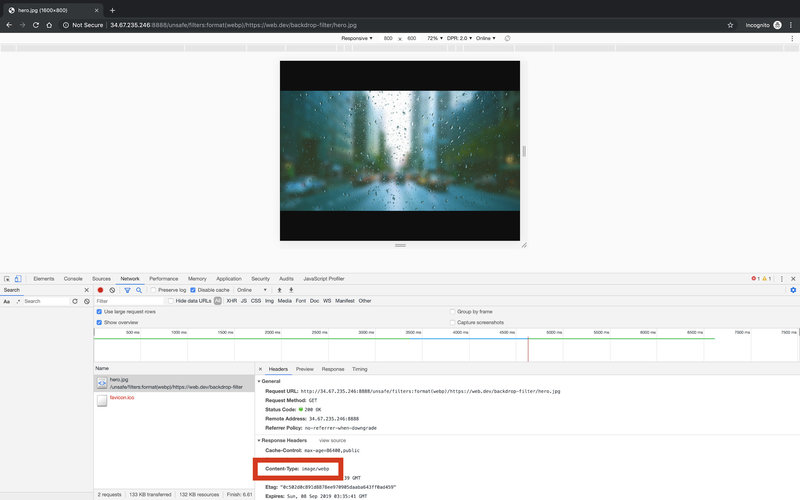
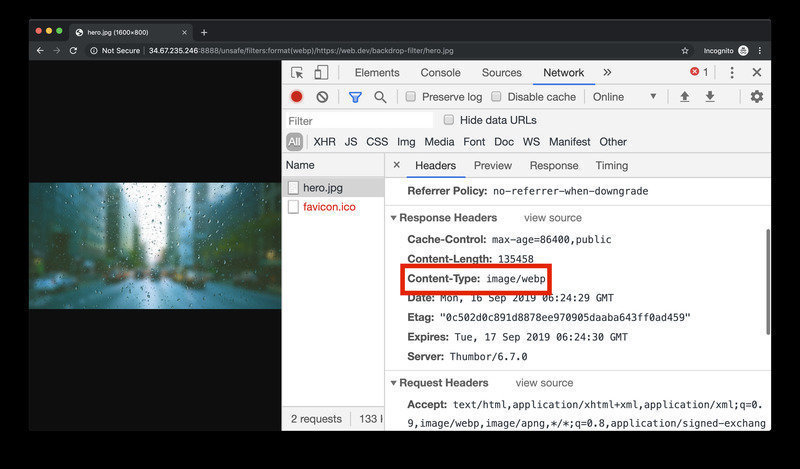
Edits to 'use thumbor' blog post

diff --git a/src/site/content/en/blog/use-thumbor/index.md b/src/site/content/en/blog/use-thumbor/index.md
@@ -34,9 +34,8 @@ As mentioned in [Use Image CDNs to Optimize Images](https://web.dev/image-cdns),
 
 <figure class="w-figure  w-figure--center">
   <img src="./Use-thumbor0.jpg" alt="A Thumbor URL has the following components: origin, security key, size, filters and image." class="w-screenshot">
+  <figcaption>Thumbor's URL format</figcaption>
 </figure>
-
-_Figure 1. Thumbor's URL format_
 
 
 ### Origin
@@ -46,7 +45,7 @@ Like all [origins](https://html.spec.whatwg.org/multipage/origin.html#concept-or
 
 ### Security Key
 
-The `unsafe` part of the URL indicates that you're using Thumbor without a [security key](https://github.com/thumbor/thumbor/wiki/security). A security key prevents a user from making unauthorized changes to your image URLs. By changing the image URL, a user could use your server (and your hosting bill) to resize their images, or, more maliciously, to overload your server. This guide won't cover setting up Thumbor's security key feature.
+The `unsafe` part of the URL indicates that you're using Thumbor without a security key. A security key prevents a user from making unauthorized changes to your image URLs. By changing the image URL, a user could use your server (and your hosting bill) to resize their images, or, more maliciously, to overload your server. This guide won't cover setting up [Thumbor's security key feature](https://github.com/thumbor/thumbor/wiki/security).
 
 
 ### Size
@@ -55,21 +54,18 @@ This part of the URL specifies the desired size of the output image. This can be
 
 Try it now:
 
-1. Click the URL below to view the image served at its original size. The image opens in a new tab.
-
-<a href="http://34.67.235.246:8888/unsafe/https://web.dev/backdrop-filter/hero.jpg" target="_blank" rel="noreferrer">http://34.67.235.246:8888/unsafe/https://web.dev/backdrop-filter/hero.jpg</a>
+1. Click the following URL to view the image served at its original size in a new tab: <a href="http://34.67.235.246:8888/unsafe/https://web.dev/backdrop-filter/hero.jpg" target="_blank" rel="noreferrer">http://34.67.235.246:8888/unsafe/https://web.dev/backdrop-filter/hero.jpg</a>
 
 <figure class="w-figure  w-figure--center">
   <img src="./Use-thumbor1.jpg" alt="Image at original size" class="w-screenshot">
+  <figcaption>Resize the image to 100x100 pixels</figcaption>
 </figure>
 
-
-2. Resize the image to 100x100 pixels.
-
-<a href="http://34.67.235.246:8888/unsafe/100x100/https://web.dev/backdrop-filter/hero.jpg" target="_blank" rel="noreferrer">http://34.67.235.246:8888/unsafe/100x100/https://web.dev/backdrop-filter/hero.jpg</a>
+2. Resize the image to 100x100 pixels: <a href="http://34.67.235.246:8888/unsafe/100x100/https://web.dev/backdrop-filter/hero.jpg" target="_blank" rel="noreferrer">http://34.67.235.246:8888/unsafe/100x100/https://web.dev/backdrop-filter/hero.jpg</a>
 
 <figure class="w-figure  w-figure--center">
   <img src="./Use-thumbor2.jpg" alt="Image at 100x100 pixels" class="w-screenshot">
+  <figcaption>Resized image</figcaption>
 </figure>
 
 
@@ -79,21 +75,19 @@ Filters transform an image. The filters part of the URL segment starts with `fil
 
 Try it now:
 
-1. Apply a single filter: a Gaussian [blur](https://thumbor.readthedocs.io/en/latest/blur.html) effect with a radius of 25 pixels.
-
-<a href="http://34.67.235.246:8888/unsafe/filters:blur(25)/https://web.dev/backdrop-filter/hero.jpg" target="_blank" rel="noreferrer">http://34.67.235.246:8888/unsafe/filters:blur(25)/https://web.dev/backdrop-filter/hero.jpg</a>
+1. Apply a single filter: a Gaussian [blur](https://thumbor.readthedocs.io/en/latest/blur.html) effect with a radius of 25 pixels: <a href="http://34.67.235.246:8888/unsafe/filters:blur(25)/https://web.dev/backdrop-filter/hero.jpg" target="_blank" rel="noreferrer">http://34.67.235.246:8888/unsafe/filters:blur(25)/https://web.dev/backdrop-filter/hero.jpg</a>
 
 <figure class="w-figure  w-figure--center">
   <img src="./Use-thumbor3.jpg" alt="Blurred image" class="w-screenshot">
+  <figcaption>Blurred imaage</figcaption>
 </figure>
 
 
-2. Apply multiple filters: convert to [grayscale](https://thumbor.readthedocs.io/en/latest/grayscale.html) and [rotate](https://thumbor.readthedocs.io/en/latest/rotate.html) the image 90 degrees.
-
-<a href="http://34.67.235.246:8888/unsafe/filters:grayscale():blur(90)/https://web.dev/backdrop-filter/hero.jpg" target="_blank" rel="noreferrer">http://34.67.235.246:8888/unsafe/filters:grayscale():blur(90)/https://web.dev/backdrop-filter/hero.jpg</a>
+2. Apply multiple filter. Convert to [grayscale](https://thumbor.readthedocs.io/en/latest/grayscale.html) and [rotate](https://thumbor.readthedocs.io/en/latest/rotate.html) the image 90 degrees: <a href="http://34.67.235.246:8888/unsafe/filters:grayscale():blur(90)/https://web.dev/backdrop-filter/hero.jpg" target="_blank" rel="noreferrer">http://34.67.235.246:8888/unsafe/filters:grayscale():blur(90)/https://web.dev/backdrop-filter/hero.jpg</a>
 
 <figure class="w-figure  w-figure--center">
   <img src="./Use-thumbor4.jpg" alt="Grayscale image that has been rotated 90 degrees" class="w-screenshot">
+  <figcaption>Grayscale, rotated image</figcaption>
 </figure>
 
 
@@ -109,20 +103,18 @@ The [quality](https://thumbor.readthedocs.io/en/latest/quality.html) filter comp
 
 Try it now:
 
-1. Compress the image to a quality of 1 (very bad).
-
-<a href="http://34.67.235.246:8888/unsafe/filters:quality(1)/https://web.dev/backdrop-filter/hero.jpg" target="_blank" rel="noreferrer">http://34.67.235.246:8888/unsafe/filters:quality(1)/https://web.dev/backdrop-filter/hero.jpg</a>
+1. Compress the image to a quality of 1 (very bad): <a href="http://34.67.235.246:8888/unsafe/filters:quality(1)/https://web.dev/backdrop-filter/hero.jpg" target="_blank" rel="noreferrer">http://34.67.235.246:8888/unsafe/filters:quality(1)/https://web.dev/backdrop-filter/hero.jpg</a>
 
 <figure class="w-figure  w-figure--center">
   <img src="./Use-thumbor5.jpg" alt="Low-quality image" class="w-screenshot">
+  <figcaption>Low-quality image</figcaption>
 </figure>
 
-2. Compress the image using Thumbor's default compression settings.
-
-<a href="http://34.67.235.246:8888/unsafe/filters:quality()/https://web.dev/backdrop-filter/hero.jpg" target="_blank" rel="noreferrer">http://34.67.235.246:8888/unsafe/filters:quality()/https://web.dev/backdrop-filter/hero.jpg</a>
+2. Compress the image using Thumbor's default compression settings: <a href="http://34.67.235.246:8888/unsafe/filters:quality()/https://web.dev/backdrop-filter/hero.jpg" target="_blank" rel="noreferrer">http://34.67.235.246:8888/unsafe/filters:quality()/https://web.dev/backdrop-filter/hero.jpg</a>
 
 <figure class="w-figure  w-figure--center">
-  <img src="./Use-thumbor6.jpg" alt="Low-quality image that appears very pixelated" class="w-screenshot">
+  <img src="./Use-thumbor6.jpg" alt="Compressed image with no noticible quality issues" class="w-screenshot">
+  <figcaption>Compressed image</figcaption>
 </figure>
 
 ### Resizing
@@ -131,22 +123,20 @@ To resize an image while maintaining its original proportions use the format `$W
 
 Try it now:
 
-1. Resize the image to a width of 200 pixels while maintaining original proportions.
-
-<a href="http://34.67.235.246:8888/unsafe/200x0/https://web.dev/backdrop-filter/hero.jpg" target="_blank" rel="noreferrer">http://34.67.235.246:8888/unsafe/200x0/https://web.dev/backdrop-filter/hero.jpg</a>
+1. Resize the image to a width of 200 pixels while maintaining original proportions: <a href="http://34.67.235.246:8888/unsafe/200x0/https://web.dev/backdrop-filter/hero.jpg" target="_blank" rel="noreferrer">http://34.67.235.246:8888/unsafe/200x0/https://web.dev/backdrop-filter/hero.jpg</a>
 
 
 <figure class="w-figure  w-figure--center">
   <img src="./Use-thumbor7.jpg" alt="Image that is 200 pixels wide" class="w-screenshot">
+  <figcaption>Image resized to a width of 200 pixels</figcaption>
 </figure>
 
 
-2. Resize the image to a height of 500 pixels while maintaining original proportions.
-
-<a href="http://34.67.235.246:8888/unsafe/0x500/https://web.dev/backdrop-filter/hero.jpg" target="_blank" rel="noreferrer">http://34.67.235.246:8888/unsafe/0x500/https://web.dev/backdrop-filter/hero.jpg</a>
+2. Resize the image to a height of 500 pixels while maintaining original proportion<a href="http://34.67.235.246:8888/unsafe/0x500/https://web.dev/backdrop-filter/hero.jpg" target="_blank" rel="noreferrer">http://34.67.235.246:8888/unsafe/0x500/https://web.dev/backdrop-filter/hero.jpg</a>
 
 <figure class="w-figure  w-figure--center">
   <img src="./Use-thumbor8.jpg" alt="Image that is 500 pixels tall" class="w-screenshot">
+  <figcaption>Image resized to a height of 500 pixels<figcaption>
 </figure>
 
 
@@ -155,21 +145,19 @@ You can also resize images to a percentage of the original by using the [proport
 
 Try it now:
 
-1. Resize the image to 50% of the original.
-
-<a href="http://34.67.235.246:8888/unsafe/filters:proportion(.5)/https://web.dev/backdrop-filter/hero.jpg" target="_blank" rel="noreferrer">http://34.67.235.246:8888/unsafe/filters:proportion(.5)/https://web.dev/backdrop-filter/hero.jpg</a>
+1. Resize the image to 50% of the original: <a href="http://34.67.235.246:8888/unsafe/filters:proportion(.5)/https://web.dev/backdrop-filter/hero.jpg" target="_blank" rel="noreferrer">http://34.67.235.246:8888/unsafe/filters:proportion(.5)/https://web.dev/backdrop-filter/hero.jpg</a>
 
 <figure class="w-figure  w-figure--center">
   <img src="./Use-thumbor9.jpg" alt="Image that is 50% the size of the original" class="w-screenshot">
+  <figcaption>Image resized to 50% the size of the original</figcaption>
 </figure>
 
 
-2. Resize the image to a width of 1000 pixels, then resize the image to 10% of its current size.
-
-<a href="http://34.67.235.246:8888/unsafe/1000x/filters:proportion(.1)/https://web.dev/backdrop-filter/hero.jpg" target="_blank" rel="noreferrer">http://34.67.235.246:8888/unsafe/1000x/filters:proportion(.1)/https://web.dev/backdrop-filter/hero.jpg</a>
+2. Resize the image to a width of 1000 pixels, then resize the image to 10% of its current size: <a href="http://34.67.235.246:8888/unsafe/1000x/filters:proportion(.1)/https://web.dev/backdrop-filter/hero.jpg" target="_blank" rel="noreferrer">http://34.67.235.246:8888/unsafe/1000x/filters:proportion(.1)/https://web.dev/backdrop-filter/hero.jpg</a>
 
 <figure class="w-figure  w-figure--center">
   <img src="./Use-thumbor10.jpg" alt="Image that is 100 pixels wide" class="w-screenshot">
+  <figcaption>Image resized to a width of 100 pixels</figcaption>
 </figure>
 
 
@@ -182,12 +170,11 @@ The [format](https://thumbor.readthedocs.io/en/latest/format.html) filter conver
 
 Try it now:
 
-1. Convert the image to WebP. If you open the **Network** panel of DevTools the document's **Content-Type response header** shows that the server returned a WebP image.
-
-<a href="http://34.67.235.246:8888/unsafe/filters:format(webp)/https://web.dev/backdrop-filter/hero.jpg" target="_blank" rel="noreferrer">http://34.67.235.246:8888/unsafe/filters:format(webp)/https://web.dev/backdrop-filter/hero.jpg</a>
+1. Convert the image to WebP. If you open the **Network** panel of DevTools the document's **Content-Type response header** shows that the server returned a WebP image: <a href="http://34.67.235.246:8888/unsafe/filters:format(webp)/https://web.dev/backdrop-filter/hero.jpg" target="_blank" rel="noreferrer">http://34.67.235.246:8888/unsafe/filters:format(webp)/https://web.dev/backdrop-filter/hero.jpg</a>
 
 <figure class="w-figure  w-figure--center">
   <img src="./Use-thumbor11.jpg" alt="DevTools screenshot showing the content-type (WebP) of an image" class="w-screenshot">
+  <figcaption>The `content-type` header in DevTools</figcaption>
 </figure>
 
 
@@ -195,22 +182,29 @@ Try it now:
 
 Try out other [filters](https://thumbor.readthedocs.io/en/latest/filters.html) and transformations on the `hero.jpg` image.
 
-If you're following along using your own Thumbor installation, check out the appendix below that explains how and why to use the thumbor.conf file.
+If you're following along using your own Thumbor installation, check out the appendix below that explains how and why to use the `thumbor.conf` file.
 
 
-## Appendix: Thumbor.conf
+## Appendix: `thumbor.conf`
 
-Many of the configuration options discussed in this post, plus many others, can be established as defaults by setting up and using the `thumbor.conf` file. Settings in the `thumbor.conf` file will be applied to all images unless overridden by the URL string parameters.
+Many of the configuration options discussed in this post, plus many others, can be established as defaults by setting up and using a `thumbor.conf` configuration file. Settings in the `thumbor.conf` file will be applied to all images unless overridden by the URL string parameters.
 
-The best way to start setting up your `thumbor.conf` file is to use the `thumbor-config` command to create a new config.
+1. Run the `thumbor-config` command to create a new `thumbor.conf` file.
 
 ```bash
 thumbor-config > ./thumbor.conf
 ```
 
-The comments in this config will list and explain all Thumbor configurations options and their defaults. To change a setting, uncomment the line and change the text. The following are a few of the settings that you may find useful to set: `QUALITY`, `AUTO_WEBP`, `MAX_WIDTH` and `MAX_HEIGHT`, and `ALLOW_ANIMATED_GIFS`.
+2. Open your new `thumbor.conf` file. The `thumbor-config` command generated a file that lists and explains all Thumbor configuration options.
 
-In order for the thumbor.conf settings to apply, Thumbor must be run using the `--conf` flag. This tells Thumbor the location of the thumbor.conf file. 
+3. Configure settings by uncommenting lines and changing the default values.
+You may find it useful to set the following settings:
+* `QUALITY`
+* `AUTO_WEBP`
+* `MAX_WIDTH` and `MAX_HEIGHT`
+* `ALLOW_ANIMATED_GIFS`
+
+4. Run Thumbor with the `--conf` flag to use your `thumbor.conf` settings.
 
 ```bash
 thumbor --conf /path/to/thumbor.conf
